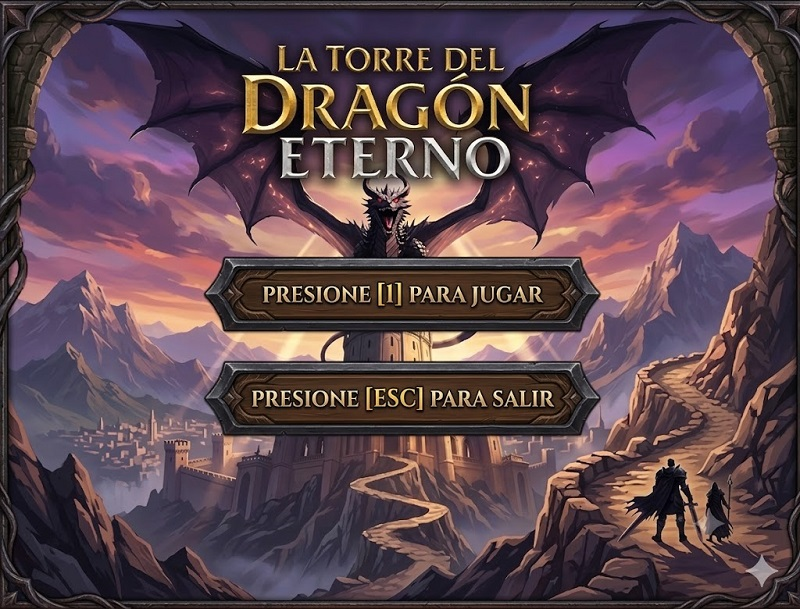
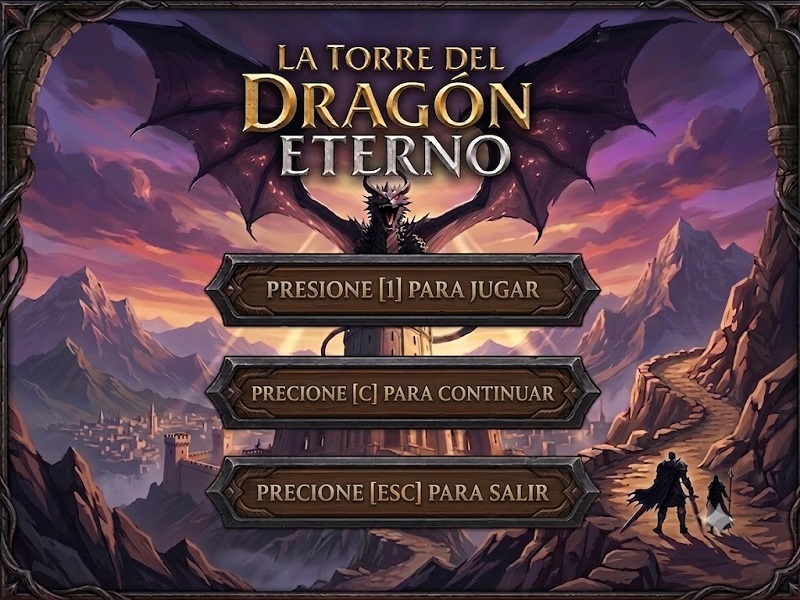
cambio de imagenes
se cambio la imagen del menu pricipal

diff --git a/La torre del dragon eterno/main.cpp b/La torre del dragon eterno/main.cpp
@@ -329,10 +329,7 @@ int main() {
                         if(event.key.code == sf::Keyboard::C){
 
 
-                        if (nivelDeGuardado == 1) {
-                        estadoActual = COMBATE_NIVEL_1;
 
-                        }
                         if (nivelDeGuardado == 2) {
                         estadoActual = COMBATE_NIVEL_2;
 
